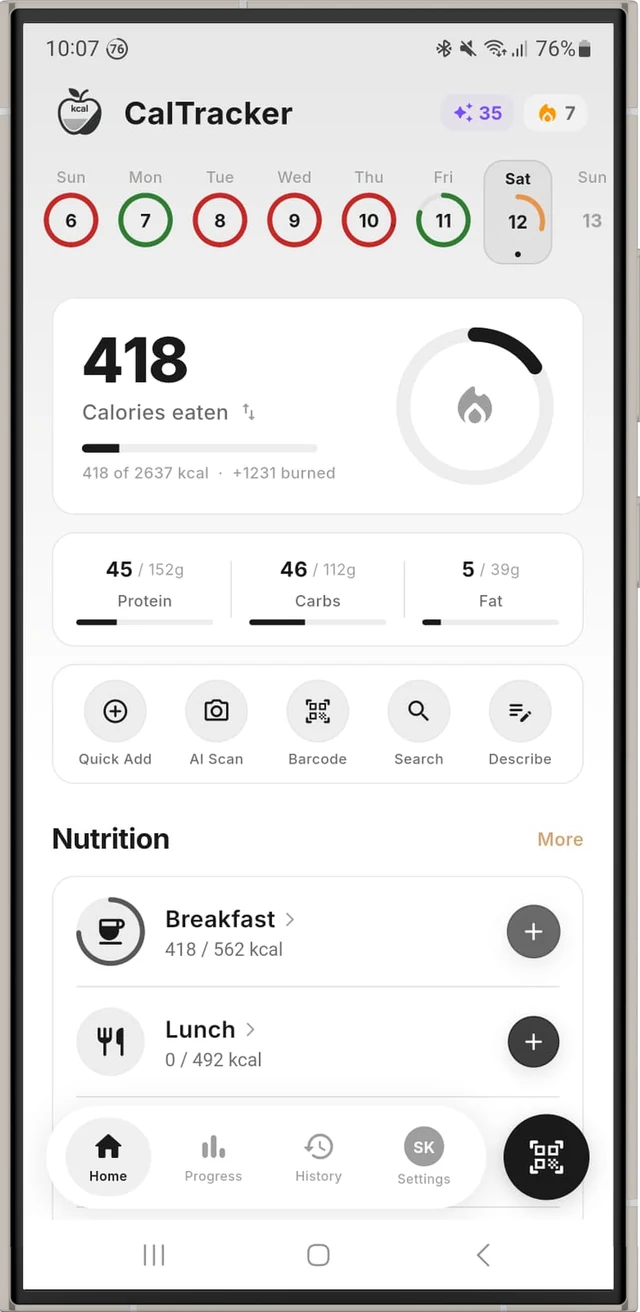
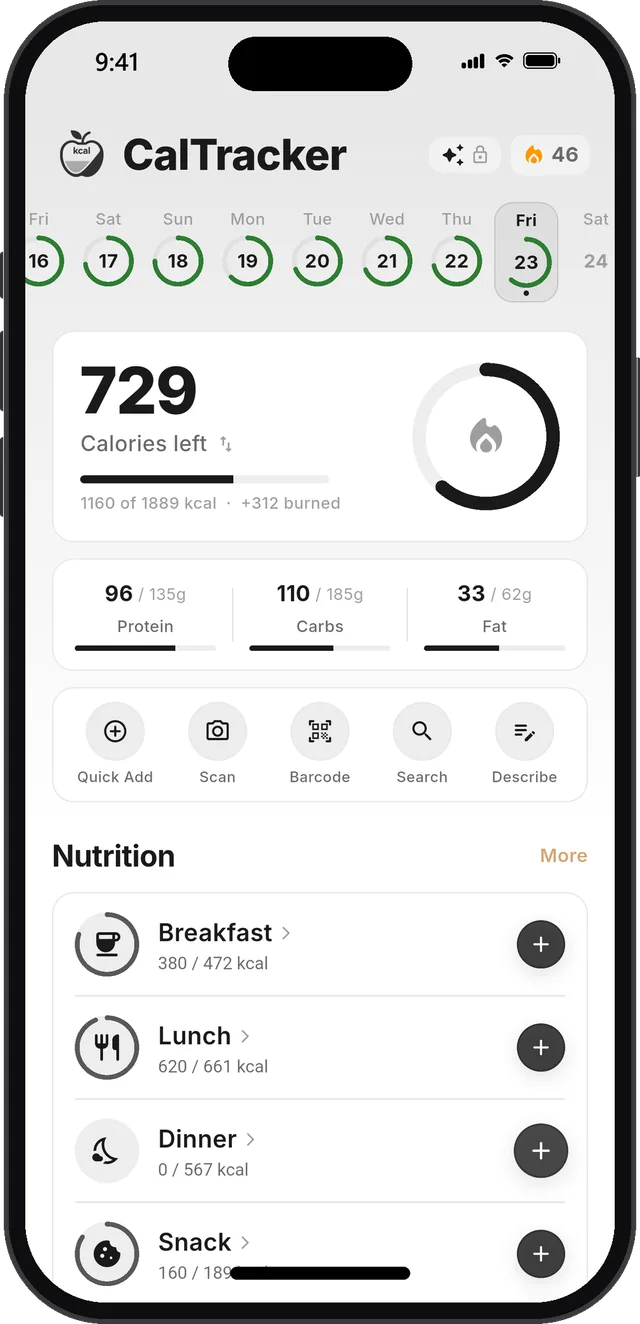
Show the current app UI: new screenshots from the store capture set
The page still showed the Sep 14 Samsung photos (v1.4 UI, real account data).
Replaced the six showcase images and the three hero phones with iPhone mockups
rendered from the Oct 23/25 Android-emulator captures (Raw V1.5, seeded demo
data, 9:41 status bar) using the helpers in scripts/store_screenshots/ of the
app repo - same source as the store slides, so site and stores match.

Slots: home, scan, activity (was Statistics), eval, history (now the month
calendar), weight. Alt texts follow the new screens. The mockups are
transparent, so the card background/radius/shadow around them is replaced by
the same drop-shadow the hero phones use; width/height attributes updated.

diff --git a/index.html b/index.html
@@ -307,12 +307,10 @@
 
     .phone-frame {
       position: relative; width: 280px;
-      border-radius: 32px; overflow: hidden;
-      box-shadow: var(--shadow-xl);
-      background: var(--bg-soft);
     }
 
-    .phone-frame img { width: 100%; height: auto; display: block; border-radius: 32px; }
+    .phone-frame img { width: 100%; height: auto; display: block; filter: drop-shadow(0 12px 16px rgba(0, 0, 0, 0.16)); }
+    [data-theme="dark"] .phone-frame img { filter: drop-shadow(0 12px 22px rgba(0, 0, 0, 0.6)); }
 
 
     @media (min-width: 1025px) {
@@ -370,10 +368,9 @@
     .showcase-label { font-size: 1.1rem; font-weight: 700; letter-spacing: -0.01em; }
 
     .showcase-phone {
-      width: 220px; border-radius: 28px; overflow: hidden;
-      box-shadow: var(--shadow-lg); background: var(--bg-soft);
-    }
-    .showcase-phone img { width: 100%; height: auto; display: block; border-radius: 28px; }
+      width: 220px; }
+    .showcase-phone img { width: 100%; height: auto; display: block; filter: drop-shadow(0 12px 16px rgba(0, 0, 0, 0.16)); }
+    [data-theme="dark"] .showcase-phone img { filter: drop-shadow(0 12px 22px rgba(0, 0, 0, 0.6)); }
 
     /* ==================== FEATURES (RICH CARDS) ==================== */
     .features-section { background: var(--bg); }
@@ -866,10 +863,8 @@
       .hero { padding: 80px 16px 32px; }
       .hero-title { font-size: 2rem; }
       section { padding: 48px 16px; }
-      .showcase-phone { width: 150px; border-radius: 20px; }
-      .showcase-phone img { border-radius: 20px; }
-      .phone-frame { width: 200px; border-radius: 26px; }
-      .phone-frame img { border-radius: 26px; }
+      .showcase-phone { width: 150px; }
+      .phone-frame { width: 200px; }
       .hero-phone { margin-left: -16px; margin-right: -16px; }
       .fan-stage {
         flex: none; width: 90%; max-width: none; margin: 0 auto; aspect-ratio: 1 / 1.2;
@@ -1026,9 +1021,9 @@
       <div class="hero-phone">
         <div class="fan-stage" data-fan>
           <div class="fan-tilt">
-            <figure class="fan-phone fan-side fan-left"><div class="fan-float"><img src="hero-phone-scan.webp" alt="CalTracker AI food scanner detecting the foods in a meal photo" width="640" height="1312" loading="eager"></div></figure>
-            <figure class="fan-phone fan-side fan-right"><div class="fan-float"><img src="hero-phone-progress.webp" alt="CalTracker progress screen with calories burned, steps, workouts and weight" width="640" height="1312" loading="eager"></div></figure>
-            <figure class="fan-phone fan-center"><div class="fan-float"><img src="hero-phone-home.webp" alt="CalTracker AI calorie counter home screen showing daily calories and macros" width="640" height="1312" loading="eager" fetchpriority="high"></div></figure>
+            <figure class="fan-phone fan-side fan-left"><div class="fan-float"><img src="hero-phone-scan.webp" alt="CalTracker AI food scanner detecting the foods in a meal photo" width="640" height="1324" loading="eager"></div></figure>
+            <figure class="fan-phone fan-side fan-right"><div class="fan-float"><img src="hero-phone-progress.webp" alt="CalTracker progress screen with calories burned, steps, workouts and weight" width="640" height="1324" loading="eager"></div></figure>
+            <figure class="fan-phone fan-center"><div class="fan-float"><img src="hero-phone-home.webp" alt="CalTracker AI calorie counter home screen showing daily calories and macros" width="640" height="1324" loading="eager" fetchpriority="high"></div></figure>
           </div>
         </div>
         <script>if (!matchMedia('(prefers-reduced-motion: reduce)').matches) document.currentScript.previousElementSibling.classList.add('fan-ready');</script>
@@ -1056,27 +1051,27 @@
     </div>
     <div class="showcase-scroll animate-on-scroll">
       <div class="showcase-item">
-        <div class="showcase-phone"><img src="img/phone-home-780.webp" srcset="img/phone-home-390.webp 390w, img/phone-home-780.webp 780w" sizes="(max-width: 640px) 160px, 220px" alt="CalTracker home screen with calorie and macro dashboard" width="780" height="1478" loading="lazy" decoding="async"></div>
+        <div class="showcase-phone"><img src="img/phone-home-780.webp" srcset="img/phone-home-390.webp 390w, img/phone-home-780.webp 780w" sizes="(max-width: 640px) 160px, 220px" alt="CalTracker home screen with calorie and macro dashboard" width="780" height="1613" loading="lazy" decoding="async"></div>
         <div class="showcase-label">Home Dashboard</div>
       </div>
       <div class="showcase-item">
-        <div class="showcase-phone"><img src="img/phone-scan-780.webp" srcset="img/phone-scan-390.webp 390w, img/phone-scan-780.webp 780w" sizes="(max-width: 640px) 160px, 220px" alt="AI food scanner recognising a meal and estimating calories" width="780" height="1478" loading="lazy" decoding="async"></div>
+        <div class="showcase-phone"><img src="img/phone-scan-780.webp" srcset="img/phone-scan-390.webp 390w, img/phone-scan-780.webp 780w" sizes="(max-width: 640px) 160px, 220px" alt="AI food scanner recognising a meal and estimating calories" width="780" height="1613" loading="lazy" decoding="async"></div>
         <div class="showcase-label">AI Food Scanner</div>
       </div>
       <div class="showcase-item">
-        <div class="showcase-phone"><img src="img/phone-activity-780.webp" srcset="img/phone-activity-390.webp 390w, img/phone-activity-780.webp 780w" sizes="(max-width: 640px) 160px, 220px" alt="Weekly calorie and macro statistics and progress charts" width="780" height="1478" loading="lazy" decoding="async"></div>
+        <div class="showcase-phone"><img src="img/phone-activity-780.webp" srcset="img/phone-activity-390.webp 390w, img/phone-activity-780.webp 780w" sizes="(max-width: 640px) 160px, 220px" alt="CalTracker progress screen with calories burned, steps goal, workouts and weight" width="780" height="1613" loading="lazy" decoding="async"></div>
         <div class="showcase-label">Statistics</div>
       </div>
       <div class="showcase-item">
-        <div class="showcase-phone"><img src="img/phone-eval-780.webp" srcset="img/phone-eval-390.webp 390w, img/phone-eval-780.webp 780w" sizes="(max-width: 640px) 160px, 220px" alt="AI daily meal evaluation and nutrition score" width="780" height="1478" loading="lazy" decoding="async"></div>
+        <div class="showcase-phone"><img src="img/phone-eval-780.webp" srcset="img/phone-eval-390.webp 390w, img/phone-eval-780.webp 780w" sizes="(max-width: 640px) 160px, 220px" alt="AI daily meal evaluation and nutrition score" width="780" height="1613" loading="lazy" decoding="async"></div>
         <div class="showcase-label">AI Meal Rating</div>
       </div>
       <div class="showcase-item">
-        <div class="showcase-phone"><img src="img/phone-history-780.webp" srcset="img/phone-history-390.webp 390w, img/phone-history-780.webp 780w" sizes="(max-width: 640px) 160px, 220px" alt="Meal history log of tracked calories and macros" width="780" height="1478" loading="lazy" decoding="async"></div>
+        <div class="showcase-phone"><img src="img/phone-history-780.webp" srcset="img/phone-history-390.webp 390w, img/phone-history-780.webp 780w" sizes="(max-width: 640px) 160px, 220px" alt="History calendar with daily calorie rings and monthly averages" width="780" height="1613" loading="lazy" decoding="async"></div>
         <div class="showcase-label">Meal History</div>
       </div>
       <div class="showcase-item">
-        <div class="showcase-phone"><img src="img/phone-weight-780.webp" srcset="img/phone-weight-390.webp 390w, img/phone-weight-780.webp 780w" sizes="(max-width: 640px) 160px, 220px" alt="Weight history chart with BMI gauge and goal trend" width="780" height="1478" loading="lazy" decoding="async"></div>
+        <div class="showcase-phone"><img src="img/phone-weight-780.webp" srcset="img/phone-weight-390.webp 390w, img/phone-weight-780.webp 780w" sizes="(max-width: 640px) 160px, 220px" alt="Weight history chart with BMI gauge and goal trend" width="780" height="1613" loading="lazy" decoding="async"></div>
         <div class="showcase-label">Weight Tracking</div>
       </div>
     </div>
@@ -1428,7 +1423,7 @@
         </ul>
       </div>
       <div class="showcase-row-img">
-        <div class="phone-frame"><img src="img/phone-scan-780.webp" srcset="img/phone-scan-390.webp 390w, img/phone-scan-780.webp 780w" sizes="(max-width: 640px) 240px, 280px" alt="AI food scanner estimating calories from a food photo" width="780" height="1478" loading="lazy" decoding="async"></div>
+        <div class="phone-frame"><img src="img/phone-scan-780.webp" srcset="img/phone-scan-390.webp 390w, img/phone-scan-780.webp 780w" sizes="(max-width: 640px) 240px, 280px" alt="AI food scanner estimating calories from a food photo" width="780" height="1613" loading="lazy" decoding="async"></div>
       </div>
     </div>
 
@@ -1445,7 +1440,7 @@
         </ul>
       </div>
       <div class="showcase-row-img">
-        <div class="phone-frame"><img src="img/phone-activity-780.webp" srcset="img/phone-activity-390.webp 390w, img/phone-activity-780.webp 780w" sizes="(max-width: 640px) 240px, 280px" alt="Calorie and macro statistics and progress tracking" width="780" height="1478" loading="lazy" decoding="async"></div>
+        <div class="phone-frame"><img src="img/phone-activity-780.webp" srcset="img/phone-activity-390.webp 390w, img/phone-activity-780.webp 780w" sizes="(max-width: 640px) 240px, 280px" alt="Progress screen with daily activity, steps and body metrics" width="780" height="1613" loading="lazy" decoding="async"></div>
       </div>
     </div>
 
@@ -1462,7 +1457,7 @@
         </ul>
       </div>
       <div class="showcase-row-img">
-        <div class="phone-frame"><img src="img/phone-eval-780.webp" srcset="img/phone-eval-390.webp 390w, img/phone-eval-780.webp 780w" sizes="(max-width: 640px) 240px, 280px" alt="AI meal evaluation giving a daily nutrition score" width="780" height="1478" loading="lazy" decoding="async"></div>
+        <div class="phone-frame"><img src="img/phone-eval-780.webp" srcset="img/phone-eval-390.webp 390w, img/phone-eval-780.webp 780w" sizes="(max-width: 640px) 240px, 280px" alt="AI meal evaluation giving a daily nutrition score" width="780" height="1613" loading="lazy" decoding="async"></div>
       </div>
     </div>
 
@@ -1479,7 +1474,7 @@
         </ul>
       </div>
       <div class="showcase-row-img">
-        <div class="phone-frame"><img src="img/phone-history-780.webp" srcset="img/phone-history-390.webp 390w, img/phone-history-780.webp 780w" sizes="(max-width: 640px) 240px, 280px" alt="Meal history showing previously tracked meals and calories" width="780" height="1478" loading="lazy" decoding="async"></div>
+        <div class="phone-frame"><img src="img/phone-history-780.webp" srcset="img/phone-history-390.webp 390w, img/phone-history-780.webp 780w" sizes="(max-width: 640px) 240px, 280px" alt="Monthly history calendar showing which days hit the calorie goal" width="780" height="1613" loading="lazy" decoding="async"></div>
       </div>
     </div>
   </section>

diff --git a/mobile.html b/mobile.html
@@ -217,10 +217,9 @@
       margin-top: 28px; animation: fadeUp 0.9s ease;
     }
     .phone-frame {
-      width: 220px; border-radius: 28px; overflow: hidden;
-      box-shadow: var(--shadow-lg); background: var(--bg-soft); margin: 0 auto;
-    }
-    .phone-frame img { width: 100%; height: auto; display: block; border-radius: 28px; }
+      width: 220px; margin: 0 auto; }
+    .phone-frame img { width: 100%; height: auto; display: block; filter: drop-shadow(0 12px 16px rgba(0, 0, 0, 0.16)); }
+    [data-theme="dark"] .phone-frame img { filter: drop-shadow(0 12px 22px rgba(0, 0, 0, 0.6)); }
 
     .hero .hero-phone {
       align-self: stretch; overflow-x: clip;
@@ -271,10 +270,9 @@
       gap: 14px; flex-shrink: 0; scroll-snap-align: center;
     }
     .showcase-phone {
-      width: 180px; border-radius: 24px; overflow: hidden;
-      box-shadow: var(--shadow-md); background: var(--bg);
-    }
-    .showcase-phone img { width: 100%; height: auto; display: block; border-radius: 24px; }
+      width: 180px; }
+    .showcase-phone img { width: 100%; height: auto; display: block; filter: drop-shadow(0 12px 16px rgba(0, 0, 0, 0.16)); }
+    [data-theme="dark"] .showcase-phone img { filter: drop-shadow(0 12px 22px rgba(0, 0, 0, 0.6)); }
     .showcase-label { font-size: 0.85rem; font-weight: 700; letter-spacing: -0.01em; }
 
     /* ==================== FEATURE SHOWCASE (screenshot rows) ==================== */
@@ -547,9 +545,9 @@
     <div class="hero-phone">
       <div class="fan-stage" data-fan>
         <div class="fan-tilt">
-          <figure class="fan-phone fan-side fan-left"><div class="fan-float"><img src="hero-phone-scan.webp" alt="CalTracker AI food scanner detecting the foods in a meal photo" width="640" height="1312" loading="eager"></div></figure>
-          <figure class="fan-phone fan-side fan-right"><div class="fan-float"><img src="hero-phone-progress.webp" alt="CalTracker progress screen with calories burned, steps, workouts and weight" width="640" height="1312" loading="eager"></div></figure>
-          <figure class="fan-phone fan-center"><div class="fan-float"><img src="hero-phone-home.webp" alt="CalTracker AI calorie counter home screen showing daily calories and macros" width="640" height="1312" loading="eager"></div></figure>
+          <figure class="fan-phone fan-side fan-left"><div class="fan-float"><img src="hero-phone-scan.webp" alt="CalTracker AI food scanner detecting the foods in a meal photo" width="640" height="1324" loading="eager"></div></figure>
+          <figure class="fan-phone fan-side fan-right"><div class="fan-float"><img src="hero-phone-progress.webp" alt="CalTracker progress screen with calories burned, steps, workouts and weight" width="640" height="1324" loading="eager"></div></figure>
+          <figure class="fan-phone fan-center"><div class="fan-float"><img src="hero-phone-home.webp" alt="CalTracker AI calorie counter home screen showing daily calories and macros" width="640" height="1324" loading="eager"></div></figure>
         </div>
       </div>
       <script>if (!matchMedia('(prefers-reduced-motion: reduce)').matches) document.currentScript.previousElementSibling.classList.add('fan-ready');</script>
@@ -586,27 +584,27 @@
     </div>
     <div class="showcase-scroll animate-on-scroll">
       <div class="showcase-item">
-        <div class="showcase-phone"><img src="img/phone-home-780.webp" srcset="img/phone-home-390.webp 390w, img/phone-home-780.webp 780w" sizes="(max-width: 640px) 160px, 220px" alt="CalTracker home screen with calorie and macro dashboard" width="780" height="1478" loading="lazy" decoding="async"></div>
+        <div class="showcase-phone"><img src="img/phone-home-780.webp" srcset="img/phone-home-390.webp 390w, img/phone-home-780.webp 780w" sizes="(max-width: 640px) 160px, 220px" alt="CalTracker home screen with calorie and macro dashboard" width="780" height="1613" loading="lazy" decoding="async"></div>
         <div class="showcase-label">Home Dashboard</div>
       </div>
       <div class="showcase-item">
-        <div class="showcase-phone"><img src="img/phone-scan-780.webp" srcset="img/phone-scan-390.webp 390w, img/phone-scan-780.webp 780w" sizes="(max-width: 640px) 160px, 220px" alt="AI food scanner recognising a meal and estimating calories" width="780" height="1478" loading="lazy" decoding="async"></div>
+        <div class="showcase-phone"><img src="img/phone-scan-780.webp" srcset="img/phone-scan-390.webp 390w, img/phone-scan-780.webp 780w" sizes="(max-width: 640px) 160px, 220px" alt="AI food scanner recognising a meal and estimating calories" width="780" height="1613" loading="lazy" decoding="async"></div>
         <div class="showcase-label">AI Food Scanner</div>
       </div>
       <div class="showcase-item">
-        <div class="showcase-phone"><img src="img/phone-activity-780.webp" srcset="img/phone-activity-390.webp 390w, img/phone-activity-780.webp 780w" sizes="(max-width: 640px) 160px, 220px" alt="Weekly calorie and macro statistics and progress charts" width="780" height="1478" loading="lazy" decoding="async"></div>
+        <div class="showcase-phone"><img src="img/phone-activity-780.webp" srcset="img/phone-activity-390.webp 390w, img/phone-activity-780.webp 780w" sizes="(max-width: 640px) 160px, 220px" alt="CalTracker progress screen with calories burned, steps goal, workouts and weight" width="780" height="1613" loading="lazy" decoding="async"></div>
         <div class="showcase-label">Statistics</div>
       </div>
       <div class="showcase-item">
-        <div class="showcase-phone"><img src="img/phone-eval-780.webp" srcset="img/phone-eval-390.webp 390w, img/phone-eval-780.webp 780w" sizes="(max-width: 640px) 160px, 220px" alt="AI daily meal evaluation and nutrition score" width="780" height="1478" loading="lazy" decoding="async"></div>
+        <div class="showcase-phone"><img src="img/phone-eval-780.webp" srcset="img/phone-eval-390.webp 390w, img/phone-eval-780.webp 780w" sizes="(max-width: 640px) 160px, 220px" alt="AI daily meal evaluation and nutrition score" width="780" height="1613" loading="lazy" decoding="async"></div>
         <div class="showcase-label">AI Meal Rating</div>
       </div>
       <div class="showcase-item">
-        <div class="showcase-phone"><img src="img/phone-history-780.webp" srcset="img/phone-history-390.webp 390w, img/phone-history-780.webp 780w" sizes="(max-width: 640px) 160px, 220px" alt="Meal history log of tracked calories and macros" width="780" height="1478" loading="lazy" decoding="async"></div>
+        <div class="showcase-phone"><img src="img/phone-history-780.webp" srcset="img/phone-history-390.webp 390w, img/phone-history-780.webp 780w" sizes="(max-width: 640px) 160px, 220px" alt="History calendar with daily calorie rings and monthly averages" width="780" height="1613" loading="lazy" decoding="async"></div>
         <div class="showcase-label">Meal History</div>
       </div>
       <div class="showcase-item">
-        <div class="showcase-phone"><img src="img/phone-weight-780.webp" srcset="img/phone-weight-390.webp 390w, img/phone-weight-780.webp 780w" sizes="(max-width: 640px) 160px, 220px" alt="Weight history chart with BMI gauge and goal trend" width="780" height="1478" loading="lazy" decoding="async"></div>
+        <div class="showcase-phone"><img src="img/phone-weight-780.webp" srcset="img/phone-weight-390.webp 390w, img/phone-weight-780.webp 780w" sizes="(max-width: 640px) 160px, 220px" alt="Weight history chart with BMI gauge and goal trend" width="780" height="1613" loading="lazy" decoding="async"></div>
         <div class="showcase-label">Weight Tracking</div>
       </div>
     </div>
@@ -673,7 +671,7 @@
         </ul>
       </div>
       <div class="showcase-row-img">
-        <div class="phone-frame"><img src="img/phone-scan-780.webp" srcset="img/phone-scan-390.webp 390w, img/phone-scan-780.webp 780w" sizes="(max-width: 640px) 240px, 280px" alt="AI food scanner estimating calories from a food photo" width="780" height="1478" loading="lazy" decoding="async"></div>
+        <div class="phone-frame"><img src="img/phone-scan-780.webp" srcset="img/phone-scan-390.webp 390w, img/phone-scan-780.webp 780w" sizes="(max-width: 640px) 240px, 280px" alt="AI food scanner estimating calories from a food photo" width="780" height="1613" loading="lazy" decoding="async"></div>
       </div>
     </div>
 
@@ -689,7 +687,7 @@
         </ul>
       </div>
       <div class="showcase-row-img">
-        <div class="phone-frame"><img src="img/phone-activity-780.webp" srcset="img/phone-activity-390.webp 390w, img/phone-activity-780.webp 780w" sizes="(max-width: 640px) 240px, 280px" alt="Calorie and macro statistics and progress tracking" width="780" height="1478" loading="lazy" decoding="async"></div>
+        <div class="phone-frame"><img src="img/phone-activity-780.webp" srcset="img/phone-activity-390.webp 390w, img/phone-activity-780.webp 780w" sizes="(max-width: 640px) 240px, 280px" alt="Progress screen with daily activity, steps and body metrics" width="780" height="1613" loading="lazy" decoding="async"></div>
       </div>
     </div>
 
@@ -705,7 +703,7 @@
         </ul>
       </div>
       <div class="showcase-row-img">
-        <div class="phone-frame"><img src="img/phone-eval-780.webp" srcset="img/phone-eval-390.webp 390w, img/phone-eval-780.webp 780w" sizes="(max-width: 640px) 240px, 280px" alt="AI meal evaluation giving a daily nutrition score" width="780" height="1478" loading="lazy" decoding="async"></div>
+        <div class="phone-frame"><img src="img/phone-eval-780.webp" srcset="img/phone-eval-390.webp 390w, img/phone-eval-780.webp 780w" sizes="(max-width: 640px) 240px, 280px" alt="AI meal evaluation giving a daily nutrition score" width="780" height="1613" loading="lazy" decoding="async"></div>
       </div>
     </div>
 
@@ -721,7 +719,7 @@
         </ul>
       </div>
       <div class="showcase-row-img">
-        <div class="phone-frame"><img src="img/phone-history-780.webp" srcset="img/phone-history-390.webp 390w, img/phone-history-780.webp 780w" sizes="(max-width: 640px) 240px, 280px" alt="Meal history showing previously tracked meals and calories" width="780" height="1478" loading="lazy" decoding="async"></div>
+        <div class="phone-frame"><img src="img/phone-history-780.webp" srcset="img/phone-history-390.webp 390w, img/phone-history-780.webp 780w" sizes="(max-width: 640px) 240px, 280px" alt="Monthly history calendar showing which days hit the calorie goal" width="780" height="1613" loading="lazy" decoding="async"></div>
       </div>
     </div>
   </section>
